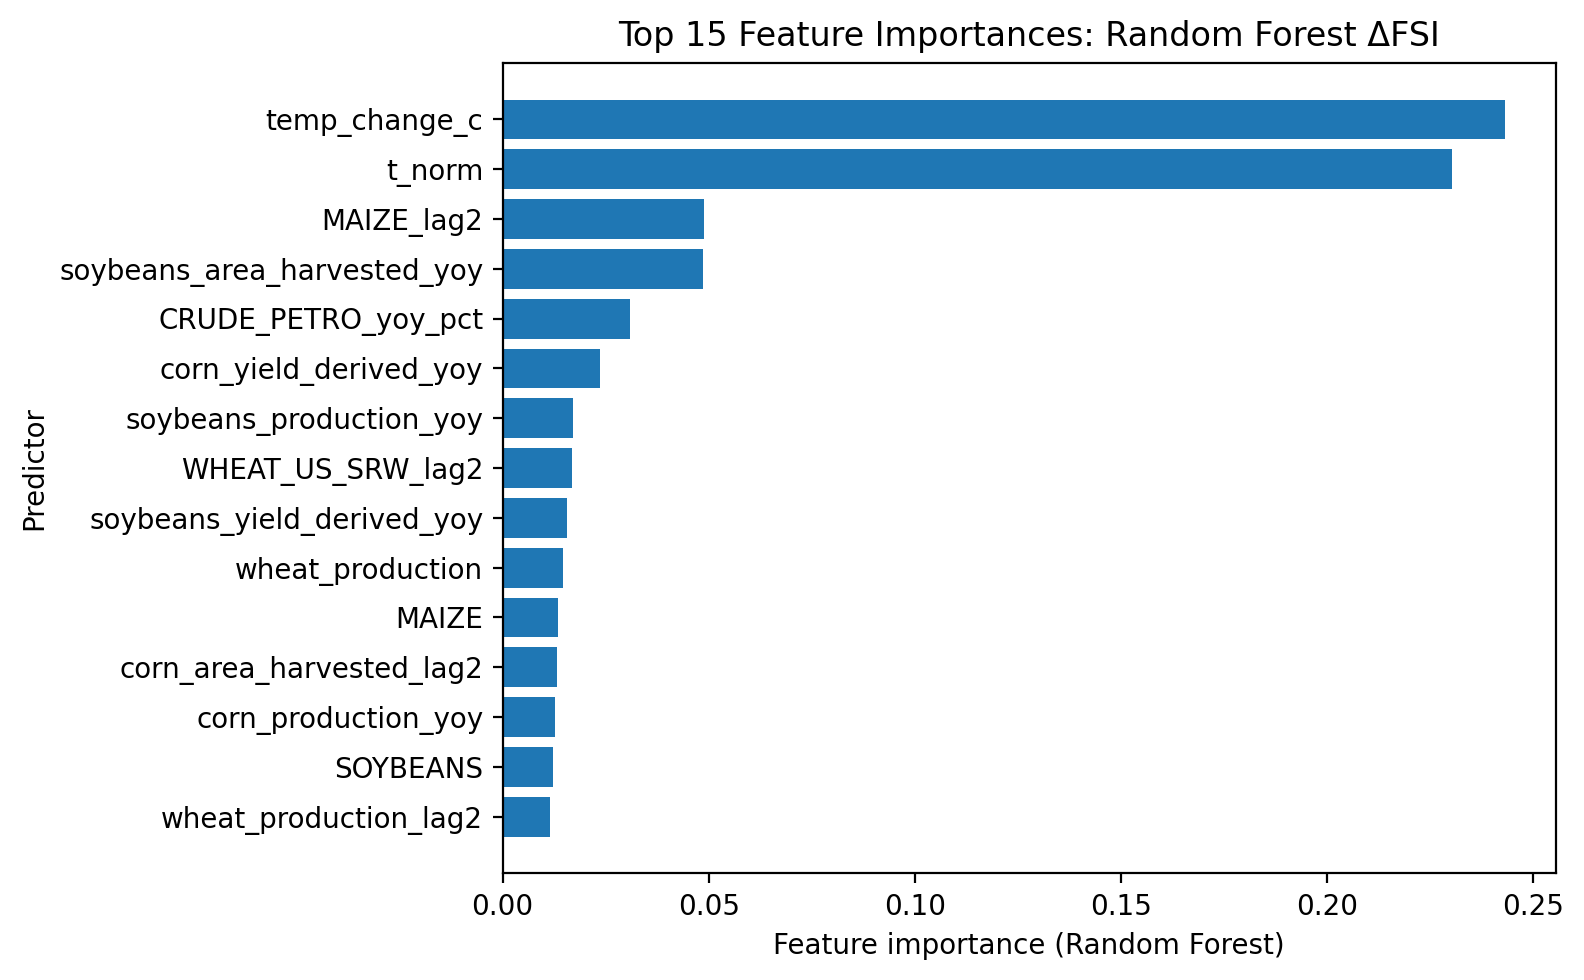
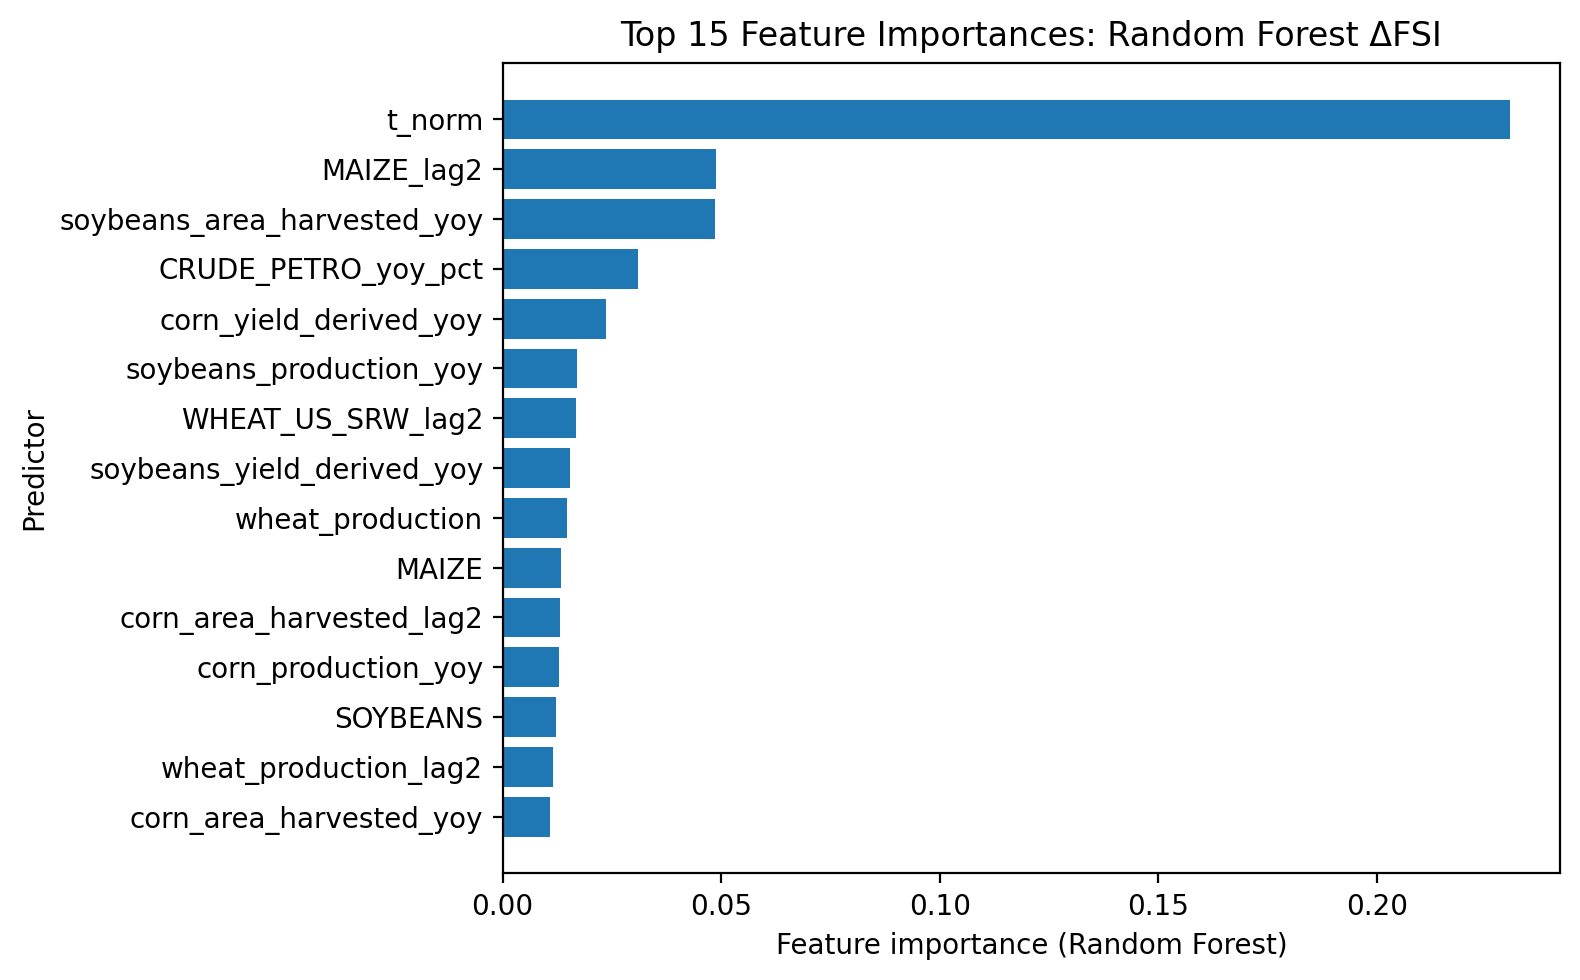
edit feature importance figure

diff --git a/code/models.py b/code/models.py
@@ -26,7 +26,7 @@ from sklearn.metrics import (
 # ============================================================
 # USER SETTINGS (edit these)
 # ============================================================
-DATA_PATH = Path(r"E:\1Cathy\hsbdc\AI2026\data3\us_model_table__MEDIAN_IMPUTED.csv")
+DATA_PATH = Path(r"E:\1Cathy\hsbdc\AI2026\data\data3\us_model_table__MEDIAN_IMPUTED.csv")
 YEAR_COL = "year"
 TARGET_COL = "FSI_geomean"
 
@@ -250,8 +250,19 @@ def plot_fig4_residuals(out_df: pd.DataFrame, out_path: Path):
 
 
 
-def plot_fig5_feature_importance(feature_names: list[str], importances: np.ndarray, out_path: Path, topk: int = 15):
-    s = pd.Series(importances, index=feature_names).sort_values(ascending=False).head(topk)[::-1]
+def plot_fig5_feature_importance(
+    feature_names: list[str],
+    importances: np.ndarray,
+    out_path: Path,
+    topk: int = 15,
+):
+    # Build series + drop temp_change_c if present
+    s_all = pd.Series(importances, index=feature_names).sort_values(ascending=False)
+    s_all = s_all.drop(labels=["temp_change_c"], errors="ignore")
+
+    # Select top-k after dropping, then reverse for horizontal bar order
+    s = s_all.head(topk)[::-1]
+
     fig = plt.figure(figsize=(8, 5), dpi=200)
     ax = plt.gca()
     ax.barh(s.index, s.values)
@@ -261,6 +272,7 @@ def plot_fig5_feature_importance(feature_names: list[str], importances: np.ndarr
     plt.tight_layout()
     plt.savefig(out_path, bbox_inches="tight")
     plt.show()
+
 
 
 def plot_roc_and_confmat(y_true_bin: np.ndarray, score: np.ndarray, y_pred_bin: np.ndarray, out_roc: Path, out_cm: Path):
